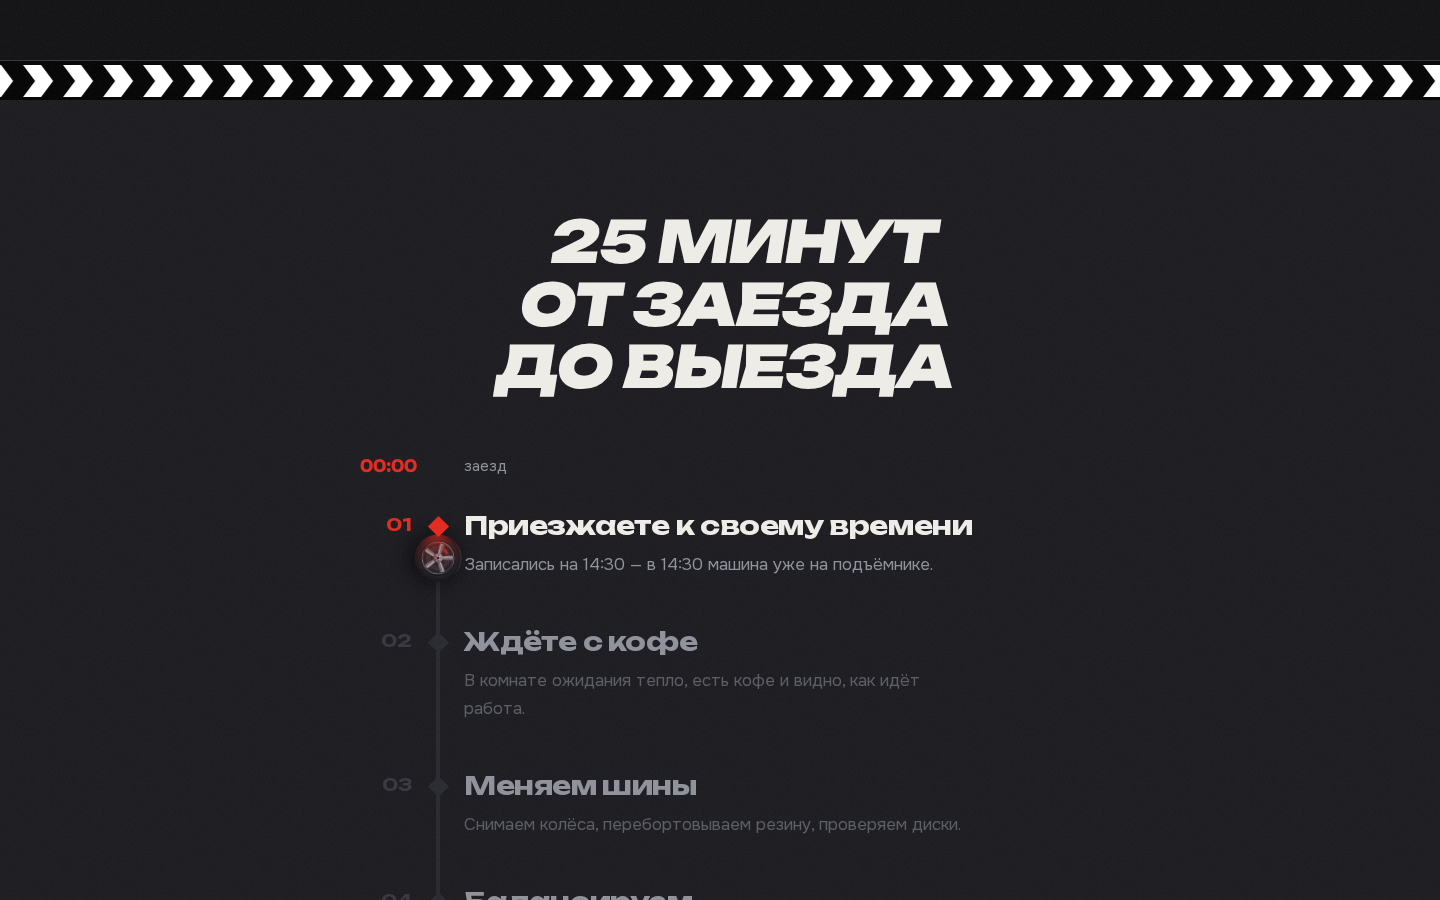
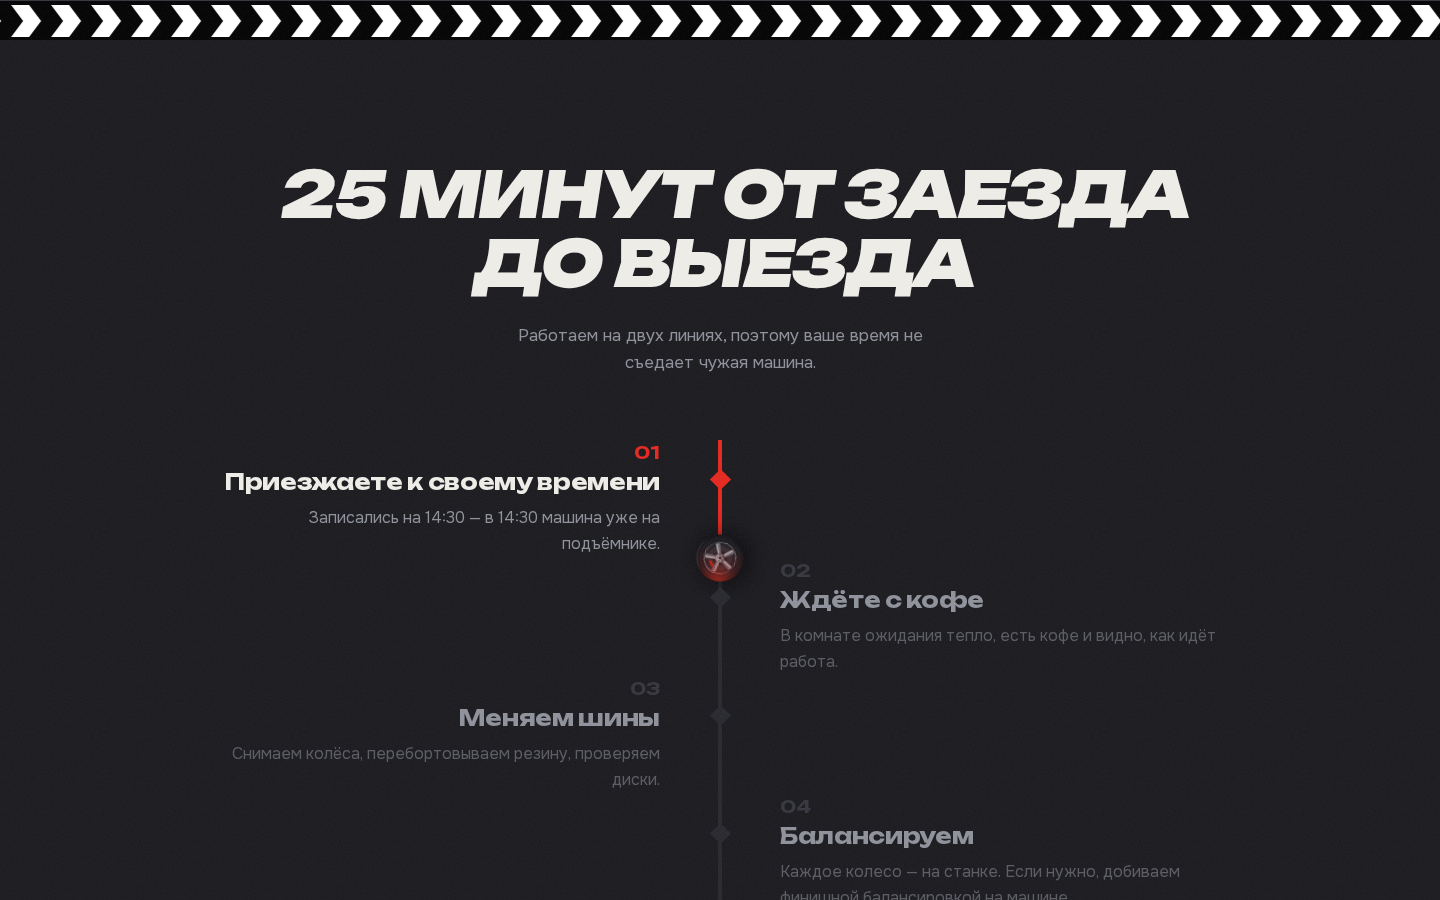
ПРОТЕКТОР, компьютер: «25 минут» ёлочкой по центру, внизу красная плашка с таймером
Claude-Session: https://claude.ai/code/session_01CSYCmsYEsfGfuLAZRJC8KX

diff --git a/protektor/styles.css b/protektor/styles.css
@@ -1615,3 +1615,35 @@ main { overflow-x: clip; }
   .visit__title { transform-origin: center bottom; }
   .mtl { justify-self: center; width: 100%; max-width: 720px; }
 }
+
+/* Компьютер: «25 минут» ёлочкой — линия посередине, этапы по очереди слева и справа, внизу красная плашка с таймером */
+@media (min-width: 1081px) {
+  .visit { padding: 120px 0 140px; }
+  .visit__inner { grid-template-columns: minmax(0, 1fr); grid-template-rows: auto auto auto; row-gap: 0; }
+  .br-1 { display: none; }
+  .visit__head { grid-column: 1; grid-row: 1; display: block; text-align: center; }
+  .visit__title { font-size: 64px; white-space: nowrap; transform-origin: center bottom; }
+  .visit__note { display: block; max-width: 460px; margin: 24px auto 0; font-size: 17px; line-height: 1.6; text-align: center; }
+  .mtl { grid-column: 1; grid-row: 2; justify-self: stretch; max-width: none; margin-top: 64px; }
+  .mtl__start { display: none; }
+  .mtl__line { left: 50%; top: 0; bottom: 0; }
+  .mtl__step { grid-template-columns: minmax(0, 1fr) 120px minmax(0, 1fr); grid-template-rows: auto auto; column-gap: 0; min-height: 118px; padding-bottom: 0; }
+  .mtl__step:last-child { min-height: 0; }
+  .mtl__step::before { left: 50%; top: 32px; }
+  .mtl__step .mtl__n { grid-row: 1; text-align: inherit; padding: 0; }
+  .mtl__step > div { grid-row: 2; max-width: 440px; }
+  .mtl__step > div span { max-width: none; }
+  .mtl__step:nth-child(odd) { text-align: right; }
+  .mtl__step:nth-child(odd) .mtl__n, .mtl__step:nth-child(odd) > div { grid-column: 1; justify-self: end; }
+  .mtl__step:nth-child(even) { text-align: left; }
+  .mtl__step:nth-child(even) .mtl__n, .mtl__step:nth-child(even) > div { grid-column: 3; justify-self: start; }
+  .mtl__step b { font-size: 22px; }
+  .mtl__step div span { font-size: 16px; }
+  .visit__bar {
+    display: flex; grid-column: 1; grid-row: 3; position: static; justify-self: center; flex-direction: row; align-items: center; gap: 40px;
+    width: min(760px, 100%); margin-top: 72px; padding: 34px 48px;
+  }
+  .visit__bar .visit__timer { font-size: 96px; }
+  .visit__bar-t { margin: 0; max-width: 320px; font-size: 17px; }
+  .visit__bar-go { display: none; }
+}

diff --git a/protektor/index.html b/protektor/index.html
@@ -329,7 +329,7 @@
       <div class="visit__pin">
         <div class="wrap visit__inner">
           <div class="visit__head">
-            <h2 class="display visit__title" id="visit-title">25 минут<br>от заезда<br class="br-desk"> до выезда</h2>
+            <h2 class="display visit__title" id="visit-title">25 минут<br class="br-1"> от заезда<br class="br-desk"> до выезда</h2>
             <p class="visit__note">Работаем на двух линиях, поэтому ваше время не съедает чужая машина.</p>
           </div>
           <div class="visit__bar">
